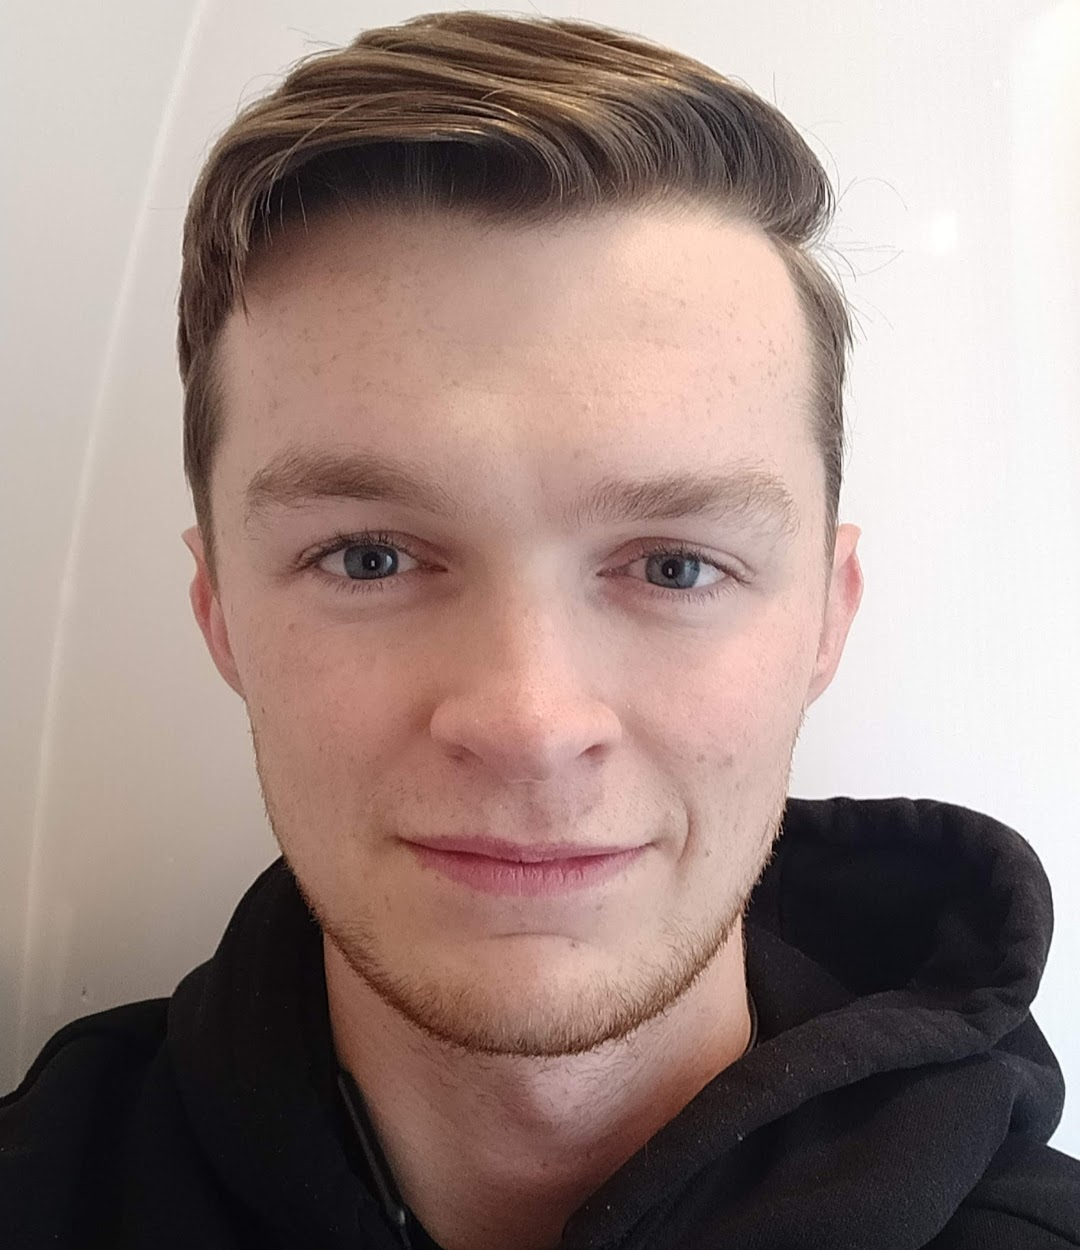
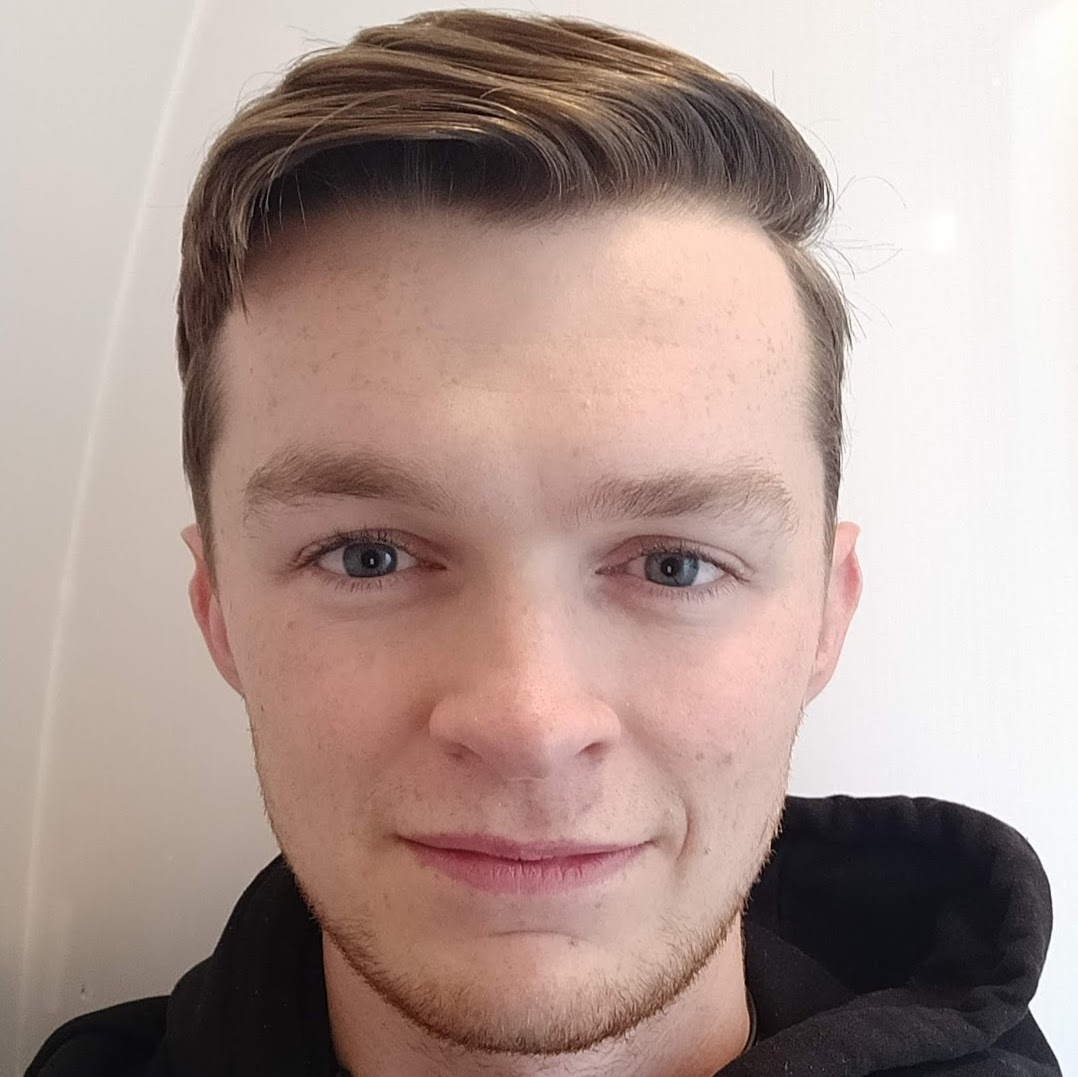
Change colour schema

diff --git a/css/style.css b/css/style.css
@@ -4,8 +4,6 @@
     box-sizing: border-box;
 }
 
-/* Custom Properties, update these for your own design */
-
 :root {
     --ff-primary: 'Source Sans Pro', sans-serif;
     --ff-secondary: 'Source Code Pro', monospace;
@@ -14,7 +12,7 @@
     --fw-bold: 900;
     
     --clr-light: #fff;
-    --clr-dark: #303030;
+    --clr-dark: #341677;
     --clr-accent: #341677;
     
     --fs-h1: 3rem;
@@ -64,24 +62,6 @@ strong { font-weight: var(--fw-bold) }
 
 /* Buttons */
 
-.btn {
-    display: inline-block;
-    padding: .5em 2.5em;
-    background: var(--clr-accent);
-    color: var(--clr-light);
-    text-decoration: none;
-    cursor: pointer;
-    font-size: .8rem;
-    text-transform: uppercase;
-    letter-spacing: 2px;
-    font-weight: var(--fw-bold);
-    transition: transform 200ms ease-in-out;
-}
-
-.btn:hover {
-    transform: scale(1.1);
-}
-
 /* Typography */
 
 h1,
@@ -124,7 +104,7 @@ h3 { font-size: var(--fs-h3) }
 }
 
 .section__subtitle--work {
-    color: var(--clr-light);
+    color: var(--clr-accent);
     font-weight: var(--fw-bold);
     margin-bottom: 2em;
 }
@@ -137,10 +117,12 @@ nav { display: none; }
 
 .intro {
     position: relative;
+    padding-bottom: 0px;
 }
 
 .intro__img {
     box-shadow: var(--bs);
+    border-radius: 50%;
 }
 
 .section__subtitle--intro {
@@ -161,7 +143,6 @@ nav { display: none; }
     
     .intro__img {
         grid-area: img;
-        border-radius: 50%;
         min-width: 250px;
         position: relative;
         z-index: 2;
@@ -187,9 +168,14 @@ nav { display: none; }
     background-color: var(--clr-dark);
     background-image: url(../img/services-bg.jpg);
     background-size: cover;
-    /* background-blend-mode: multiply; */
     color: var(--clr-light);
     text-align: center;
+    padding-bottom: 2rem;
+}
+
+ul {
+    list-style-position: inside;
+    padding-left: 0px;
 }
 
 .section__title--services {
@@ -237,6 +223,7 @@ nav { display: none; }
 
 .about-me__img {
     box-shadow: var(--bs);
+    border-radius: 50%;
 }
 
 @media (min-width: 600px) {
@@ -266,7 +253,6 @@ nav { display: none; }
     
     .about-me__img {
         grid-area: img;
-        border-radius: 50%;
         position: relative;
         z-index: 2;
     }
@@ -275,8 +261,8 @@ nav { display: none; }
 /* My Work */
 
 .my-work {
-    background-color: var(--clr-dark);
-    color: var(--clr-light);
+    background-color: var(--clr-light);
+    color: var(--clr-accent);
     text-align: center;    
 }
 
@@ -311,8 +297,8 @@ nav { display: none; }
 /* footer */
 
 .footer {
-    background: var(--clr-light);
-    color: var(--clr-accent);
+    background: var(--clr-dark);
+    color: var(--clr-light);
     text-align: center;
     padding: 2.5em 0;
     font-size: var(--fs-h3);
